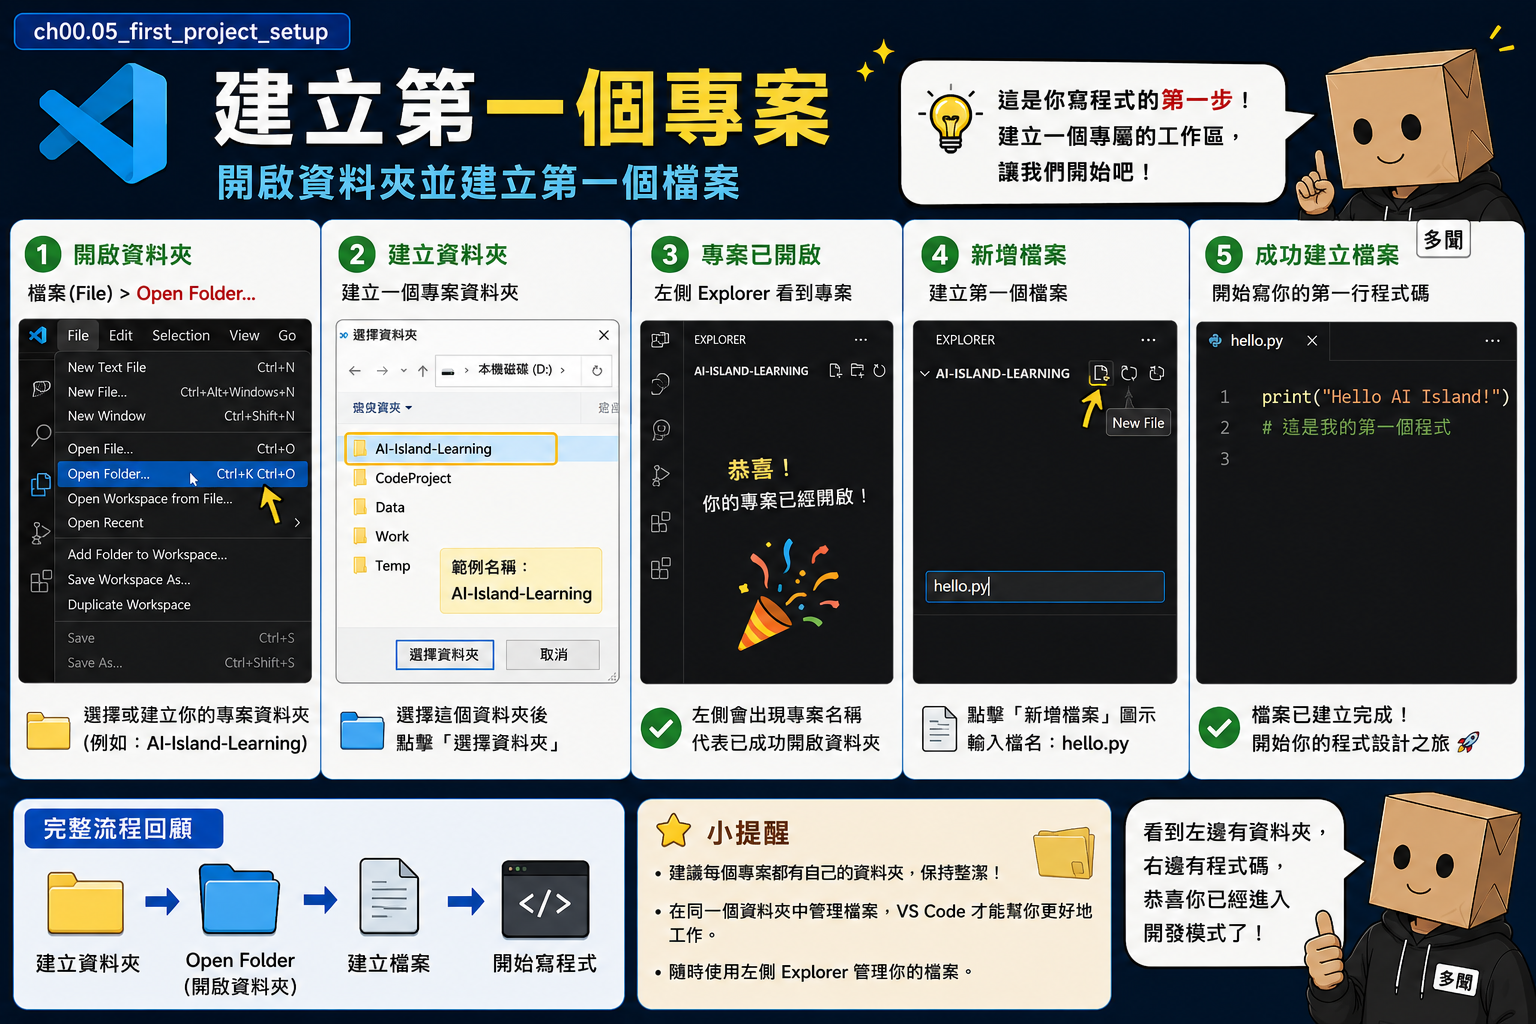
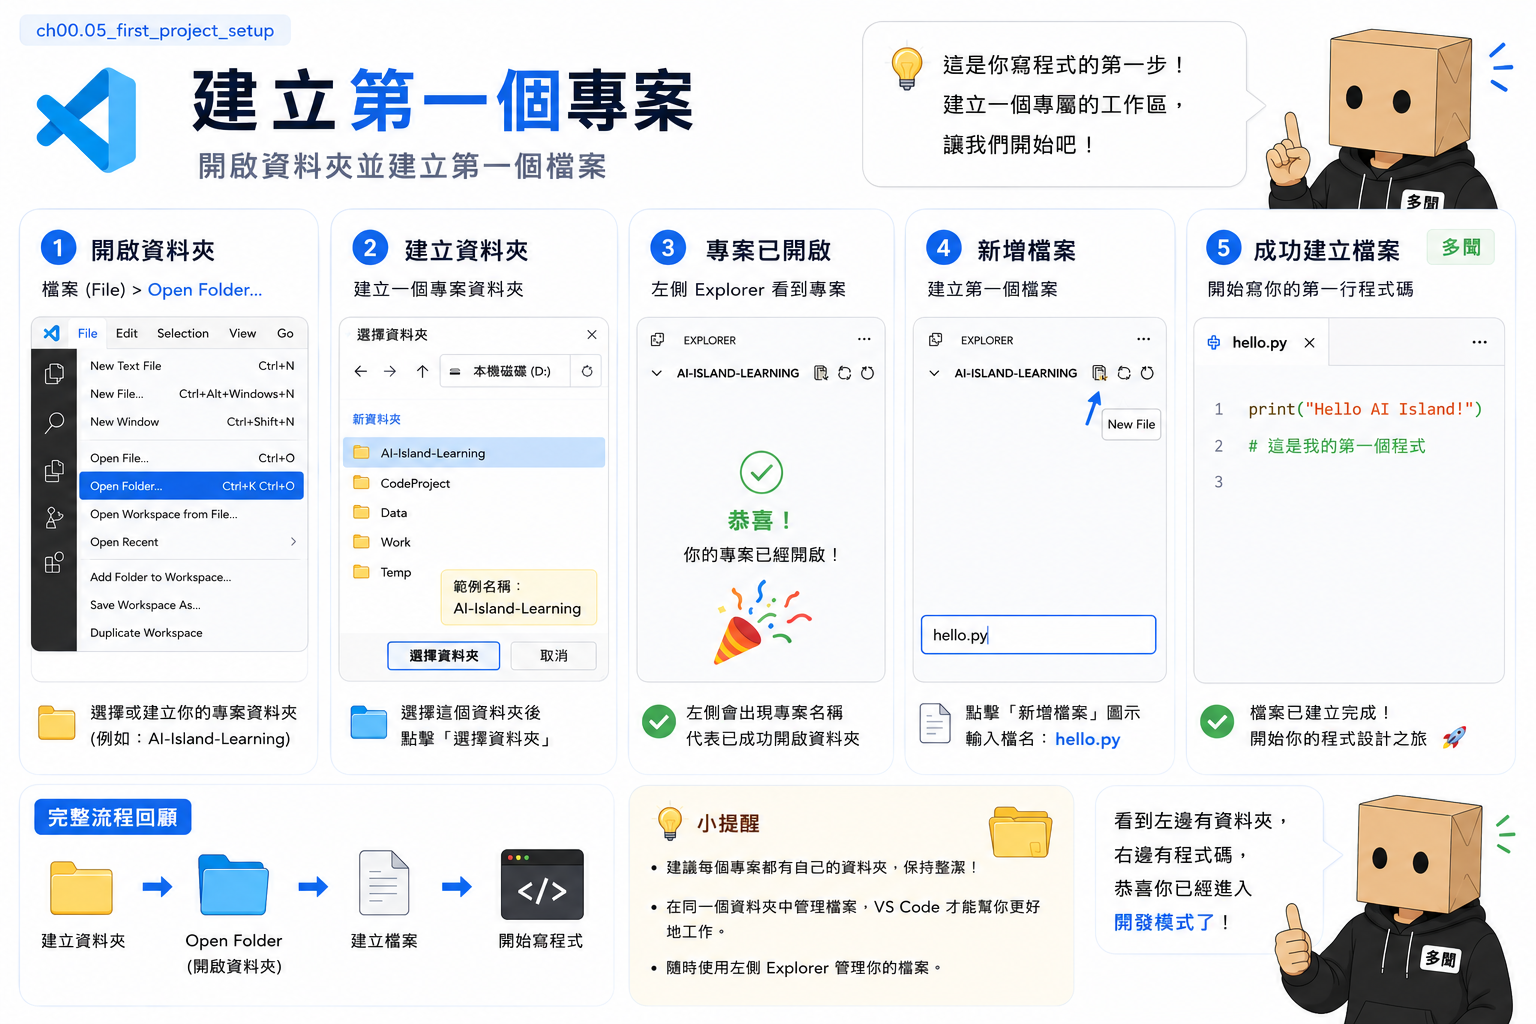
feat(notes/share): 產生邀請碼前先選權限(可編輯/唯讀)，加入者直接套用，之後仍可逐人改
- note_invites.role 帶預設權限；join 時套用該角色（已是協作者則不覆蓋）
- 同筆記同時只留一個有效邀請；切換權限會作廢舊連結、換新連結
- UI：產生連結前先選『對方加入後：可編輯/唯讀』

diff --git a/src/app/me/notes/NotesManager.tsx b/src/app/me/notes/NotesManager.tsx
@@ -722,6 +722,7 @@ function NoteSharePanel({ noteId, ensureSaved }: { noteId: string | null; ensure
   const [code, setCode] = useState<string | null>(null);
   const [url, setUrl] = useState<string | null>(null);
   const [collabs, setCollabs] = useState<Collab[]>([]);
+  const [inviteRole, setInviteRole] = useState<"editor" | "viewer">("editor"); // 擁有者先決定加入者權限
   const [busy, setBusy] = useState(false);
 
   useEffect(() => {
@@ -731,7 +732,10 @@ function NoteSharePanel({ noteId, ensureSaved }: { noteId: string | null; ensure
       try {
         const res = await fetch(`/api/me/notes/${noteId}/share`);
         const j = await res.json();
-        if (!cancelled && res.ok) { setCode(j.code); setUrl(j.url); setCollabs(j.collaborators ?? []); }
+        if (!cancelled && res.ok) {
+          setCode(j.code); setUrl(j.url); setCollabs(j.collaborators ?? []);
+          if (j.inviteRole) setInviteRole(j.inviteRole);
+        }
       } finally {
         if (!cancelled) setLoading(false);
       }
@@ -739,16 +743,24 @@ function NoteSharePanel({ noteId, ensureSaved }: { noteId: string | null; ensure
     return () => { cancelled = true; };
   }, [noteId]);
 
-  const generate = async () => {
+  const generate = async (role: "editor" | "viewer", silent = false) => {
     setBusy(true);
     try {
       const id = noteId ?? (await ensureSaved()); // 新筆記先存一次拿到 id
       if (!id) { toast.error("請先輸入內容、才能產生邀請"); return; }
-      const res = await fetch(`/api/me/notes/${id}/share`, { method: "POST" });
+      const res = await fetch(`/api/me/notes/${id}/share`, {
+        method: "POST", headers: { "Content-Type": "application/json" }, body: JSON.stringify({ role }),
+      });
       const j = await res.json().catch(() => ({}));
       if (!res.ok) { toast.error(j.message || j.error || `產生失敗（${res.status}）`); return; }
       setCode(j.code); setUrl(j.url);
+      if (!silent) toast.success("已產生邀請連結");
     } finally { setBusy(false); }
+  };
+  // 切換邀請權限：若已有連結 → 換新連結套用新權限（舊連結失效）
+  const changeInviteRole = (role: "editor" | "viewer") => {
+    setInviteRole(role);
+    if (url) { generate(role, true); toast.success(role === "viewer" ? "已改為唯讀邀請、連結已更新" : "已改為可編輯邀請、連結已更新"); }
   };
   const copy = async () => {
     if (!url) return;
@@ -766,17 +778,31 @@ function NoteSharePanel({ noteId, ensureSaved }: { noteId: string | null; ensure
   return (
     <div className="rounded-lg border border-border p-3 space-y-2">
       <div className="text-xs font-medium text-fg-muted inline-flex items-center gap-1"><Link2 size={13} /> 共用設定（邀請別人一起編輯）</div>
+
+      {/* 先決定加入者權限、再產生連結 */}
+      <div className="flex items-center gap-2 text-xs">
+        <span className="text-fg-muted shrink-0">對方加入後：</span>
+        <div className="inline-flex rounded border border-border overflow-hidden">
+          <button type="button" onClick={() => changeInviteRole("editor")} className={`px-2.5 py-0.5 transition ${inviteRole === "editor" ? "bg-accent text-black" : "text-fg-muted hover:text-fg"}`}>可編輯</button>
+          <button type="button" onClick={() => changeInviteRole("viewer")} className={`px-2.5 py-0.5 transition ${inviteRole === "viewer" ? "bg-accent text-black" : "text-fg-muted hover:text-fg"}`}>唯讀</button>
+        </div>
+      </div>
+
       {url ? (
         <div className="flex items-center gap-2">
           <input readOnly value={url} onFocus={(e) => e.currentTarget.select()} className="flex-1 bg-bg border border-border rounded px-2 py-1 text-xs" />
           <button type="button" onClick={copy} className="text-xs px-2 py-1 rounded border border-border hover:border-accent transition inline-flex items-center gap-1"><Copy size={12} /> 複製</button>
         </div>
       ) : (
-        <button type="button" onClick={generate} disabled={busy} className="text-xs px-3 py-1.5 rounded-lg bg-accent text-black font-semibold inline-flex items-center gap-1.5 disabled:opacity-50">
-          {busy ? <Loader2 size={12} className="animate-spin" /> : <Link2 size={12} />} 產生邀請連結
+        <button type="button" onClick={() => generate(inviteRole)} disabled={busy} className="text-xs px-3 py-1.5 rounded-lg bg-accent text-black font-semibold inline-flex items-center gap-1.5 disabled:opacity-50">
+          {busy ? <Loader2 size={12} className="animate-spin" /> : <Link2 size={12} />} 產生{inviteRole === "viewer" ? "唯讀" : "可編輯"}邀請連結
         </button>
       )}
-      {code && <div className="text-[11px] text-fg-muted">邀請碼：<code className="px-1 rounded bg-bg-elevated">{code}</code> — 連結貼到聊天室會有預覽卡片；對方也可在「加入共用」直接輸入這組碼</div>}
+      {code && (
+        <div className="text-[11px] text-fg-muted">
+          邀請碼：<code className="px-1 rounded bg-bg-elevated">{code}</code>（此連結加入後為「{inviteRole === "viewer" ? "唯讀" : "可編輯"}」）— 貼到聊天室會有預覽卡片，對方也可在「加入共用」輸入這組碼
+        </div>
+      )}
 
       {collabs.length > 0 ? (
         <div className="space-y-1 pt-1">

diff --git a/src/app/api/me/notes/[id]/share/route.ts b/src/app/api/me/notes/[id]/share/route.ts
@@ -40,7 +40,7 @@ async function shareState(admin: ReturnType<typeof createSupabaseAdmin>, note: {
       .select("user_id, role, added_at, profiles(username, display_name, avatar_url)")
       .eq("note_id", note.id).order("added_at", { ascending: true }),
     admin.from("profiles").select("id, username, display_name, avatar_url").eq("id", note.user_id).maybeSingle(),
-    admin.from("note_invites").select("code")
+    admin.from("note_invites").select("code, role")
       .eq("note_id", note.id).eq("revoked", false)
       .order("created_at", { ascending: false }).limit(1).maybeSingle(),
   ]);
@@ -53,6 +53,7 @@ async function shareState(admin: ReturnType<typeof createSupabaseAdmin>, note: {
       avatar_url: c.profiles?.avatar_url ?? null,
     })),
     code: invite?.code ?? null,
+    inviteRole: invite?.role ?? "editor",
     url: invite?.code ? `${origin}/notes/join/${invite.code}` : null,
   };
 }
@@ -88,16 +89,23 @@ export async function POST(req: NextRequest, { params }: { params: Promise<{ id:
   }
   if (!isOwner) return NextResponse.json({ error: "owner_only", message: "只有筆記擁有者可以發邀請" }, { status: 403 });
 
-  // 已有有效邀請碼就沿用、否則開新的
-  let { data: invite } = await admin.from("note_invites").select("code")
+  const body = await req.json().catch(() => ({}));
+  const role = body?.role === "viewer" ? "viewer" : "editor"; // 擁有者先決定加入者的權限
+
+  // 已有同權限的有效邀請碼就沿用；權限不同則作廢舊的、開一條新的（一則筆記同時只留一個有效邀請）
+  let { data: invite } = await admin.from("note_invites").select("code, role")
     .eq("note_id", id).eq("revoked", false)
     .order("created_at", { ascending: false }).limit(1).maybeSingle();
   let lastErr = "";
-  if (!invite) {
+  if (!invite || invite.role !== role) {
+    if (invite) {
+      await admin.from("note_invites").update({ revoked: true }).eq("note_id", id).eq("revoked", false);
+      invite = null;
+    }
     let code = genCode();
     for (let tries = 0; tries < 5; tries++) {
       const { data, error } = await admin.from("note_invites")
-        .insert({ note_id: id, code, created_by: user.id }).select("code").single();
+        .insert({ note_id: id, code, created_by: user.id, role }).select("code, role").single();
       if (!error && data) { invite = data; break; }
       lastErr = error?.message ?? "";
       code = genCode();
@@ -107,7 +115,7 @@ export async function POST(req: NextRequest, { params }: { params: Promise<{ id:
     console.error("[note share] code_gen_failed:", lastErr);
     return NextResponse.json({ error: "code_gen_failed", message: lastErr || "產生邀請碼失敗" }, { status: 500 });
   }
-  return NextResponse.json({ code: invite.code, url: `${siteOrigin(req)}/notes/join/${invite.code}` });
+  return NextResponse.json({ code: invite.code, role, url: `${siteOrigin(req)}/notes/join/${invite.code}` });
 }
 
 // 設定協作者權限：editor（可編輯）/ viewer（唯讀）— 只有擁有者

diff --git a/src/app/api/notes/join/route.ts b/src/app/api/notes/join/route.ts
@@ -16,7 +16,7 @@ export async function POST(req: NextRequest) {
   const admin = createSupabaseAdmin();
   const { data: invite } = await admin
     .from("note_invites")
-    .select("note_id, created_by, revoked, expires_at")
+    .select("note_id, created_by, revoked, expires_at, role")
     .eq("code", code.trim().toUpperCase())
     .maybeSingle();
 
@@ -30,8 +30,12 @@ export async function POST(req: NextRequest) {
 
   // 擁有者本人 = 已經有權限、不需加協作者
   if (note.user_id !== user.id) {
+    // 套用邀請碼帶的權限；若已是協作者就不動他現有權限（ignoreDuplicates）
     await admin.from("note_collaborators")
-      .upsert({ note_id: invite.note_id, user_id: user.id }, { onConflict: "note_id,user_id" });
+      .upsert(
+        { note_id: invite.note_id, user_id: user.id, role: invite.role === "viewer" ? "viewer" : "editor" },
+        { onConflict: "note_id,user_id", ignoreDuplicates: true },
+      );
   }
 
   const title = (note.title?.trim()) || String(note.content || "").replace(/<[^>]*>/g, " ").replace(/\s+/g, " ").trim().slice(0, 40) || "（無標題筆記）";